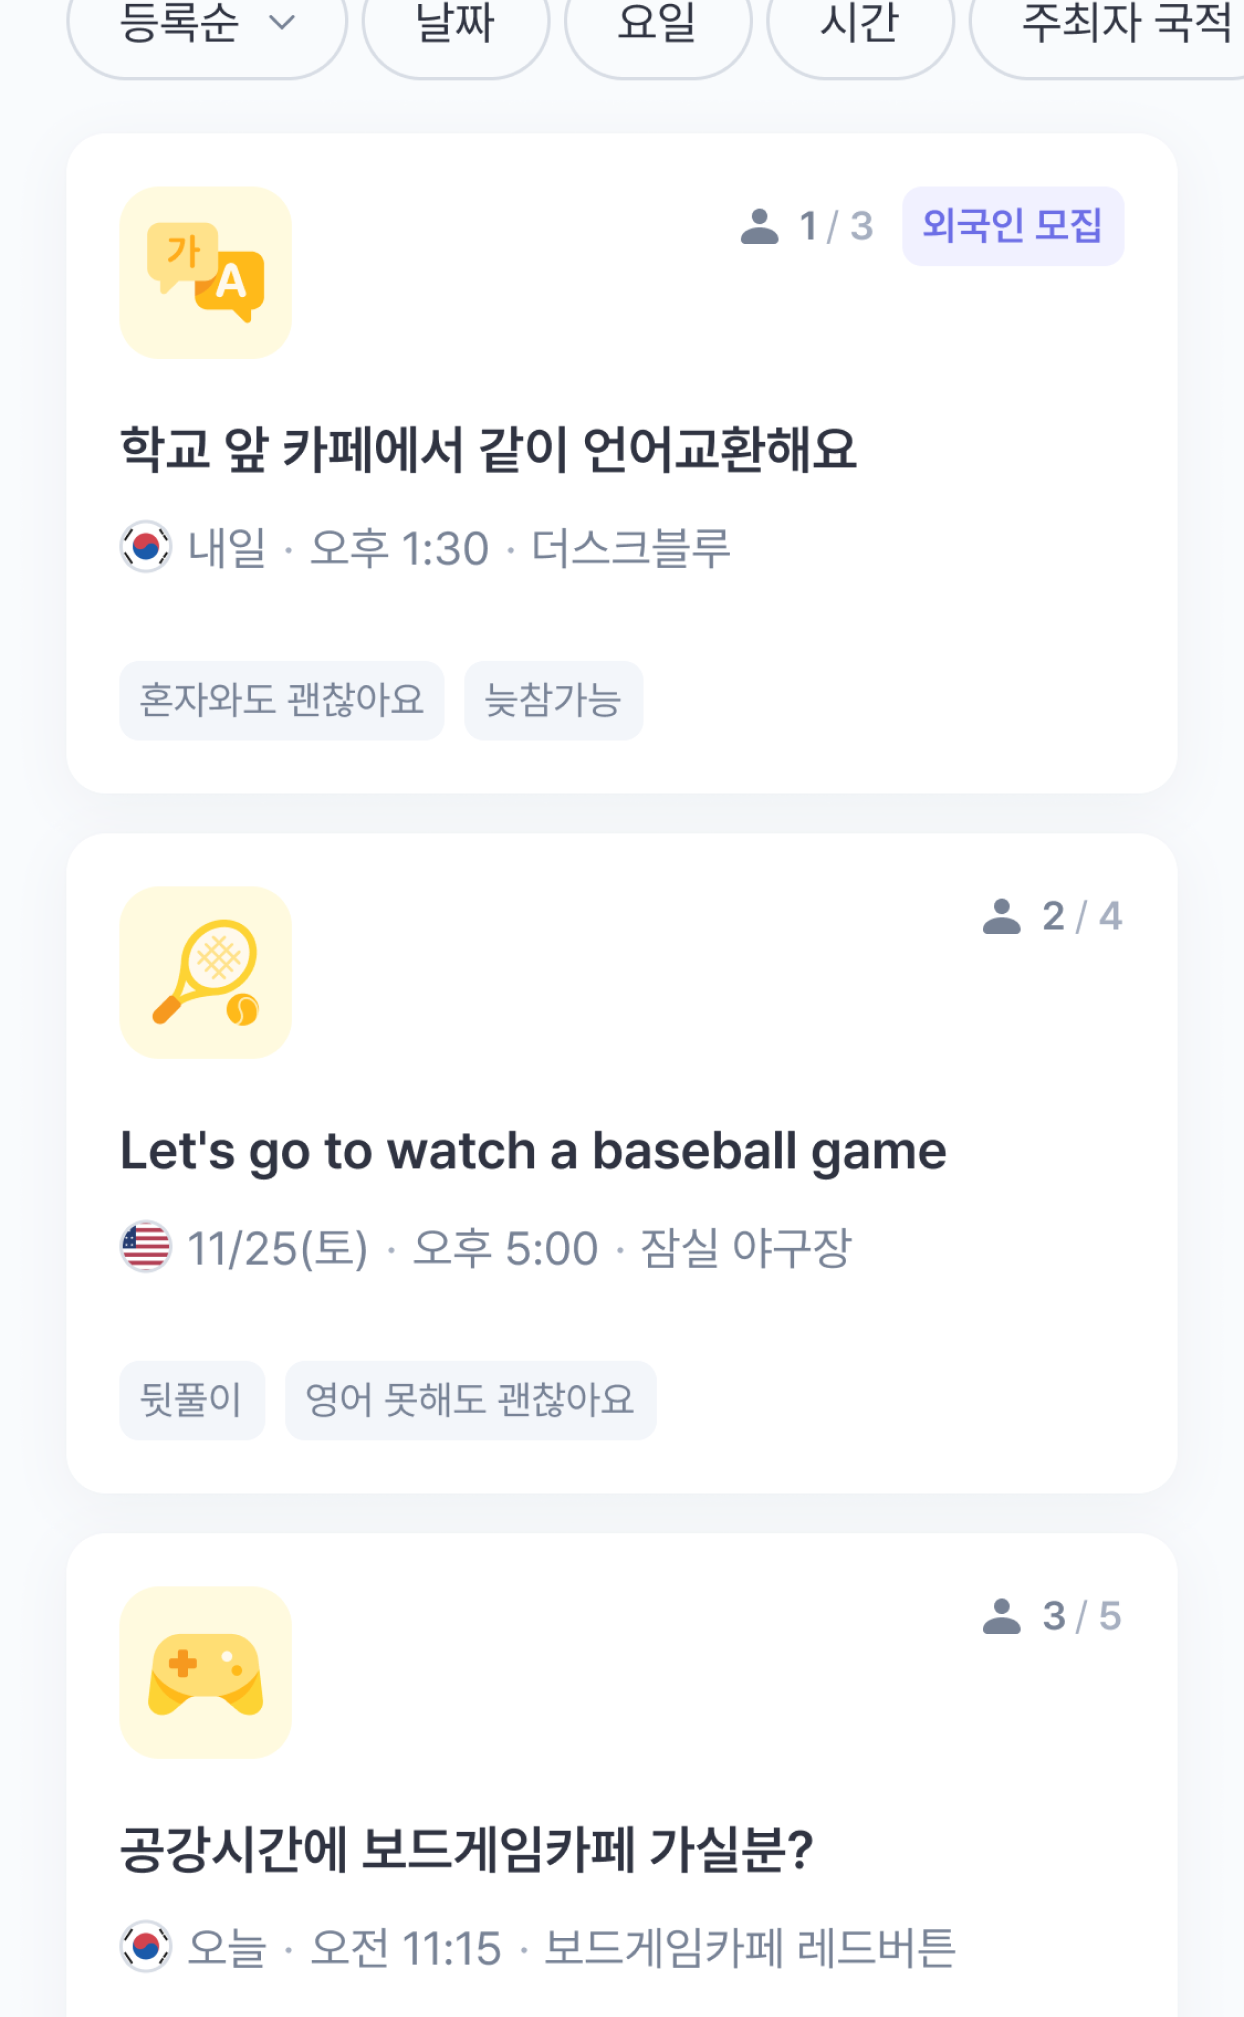
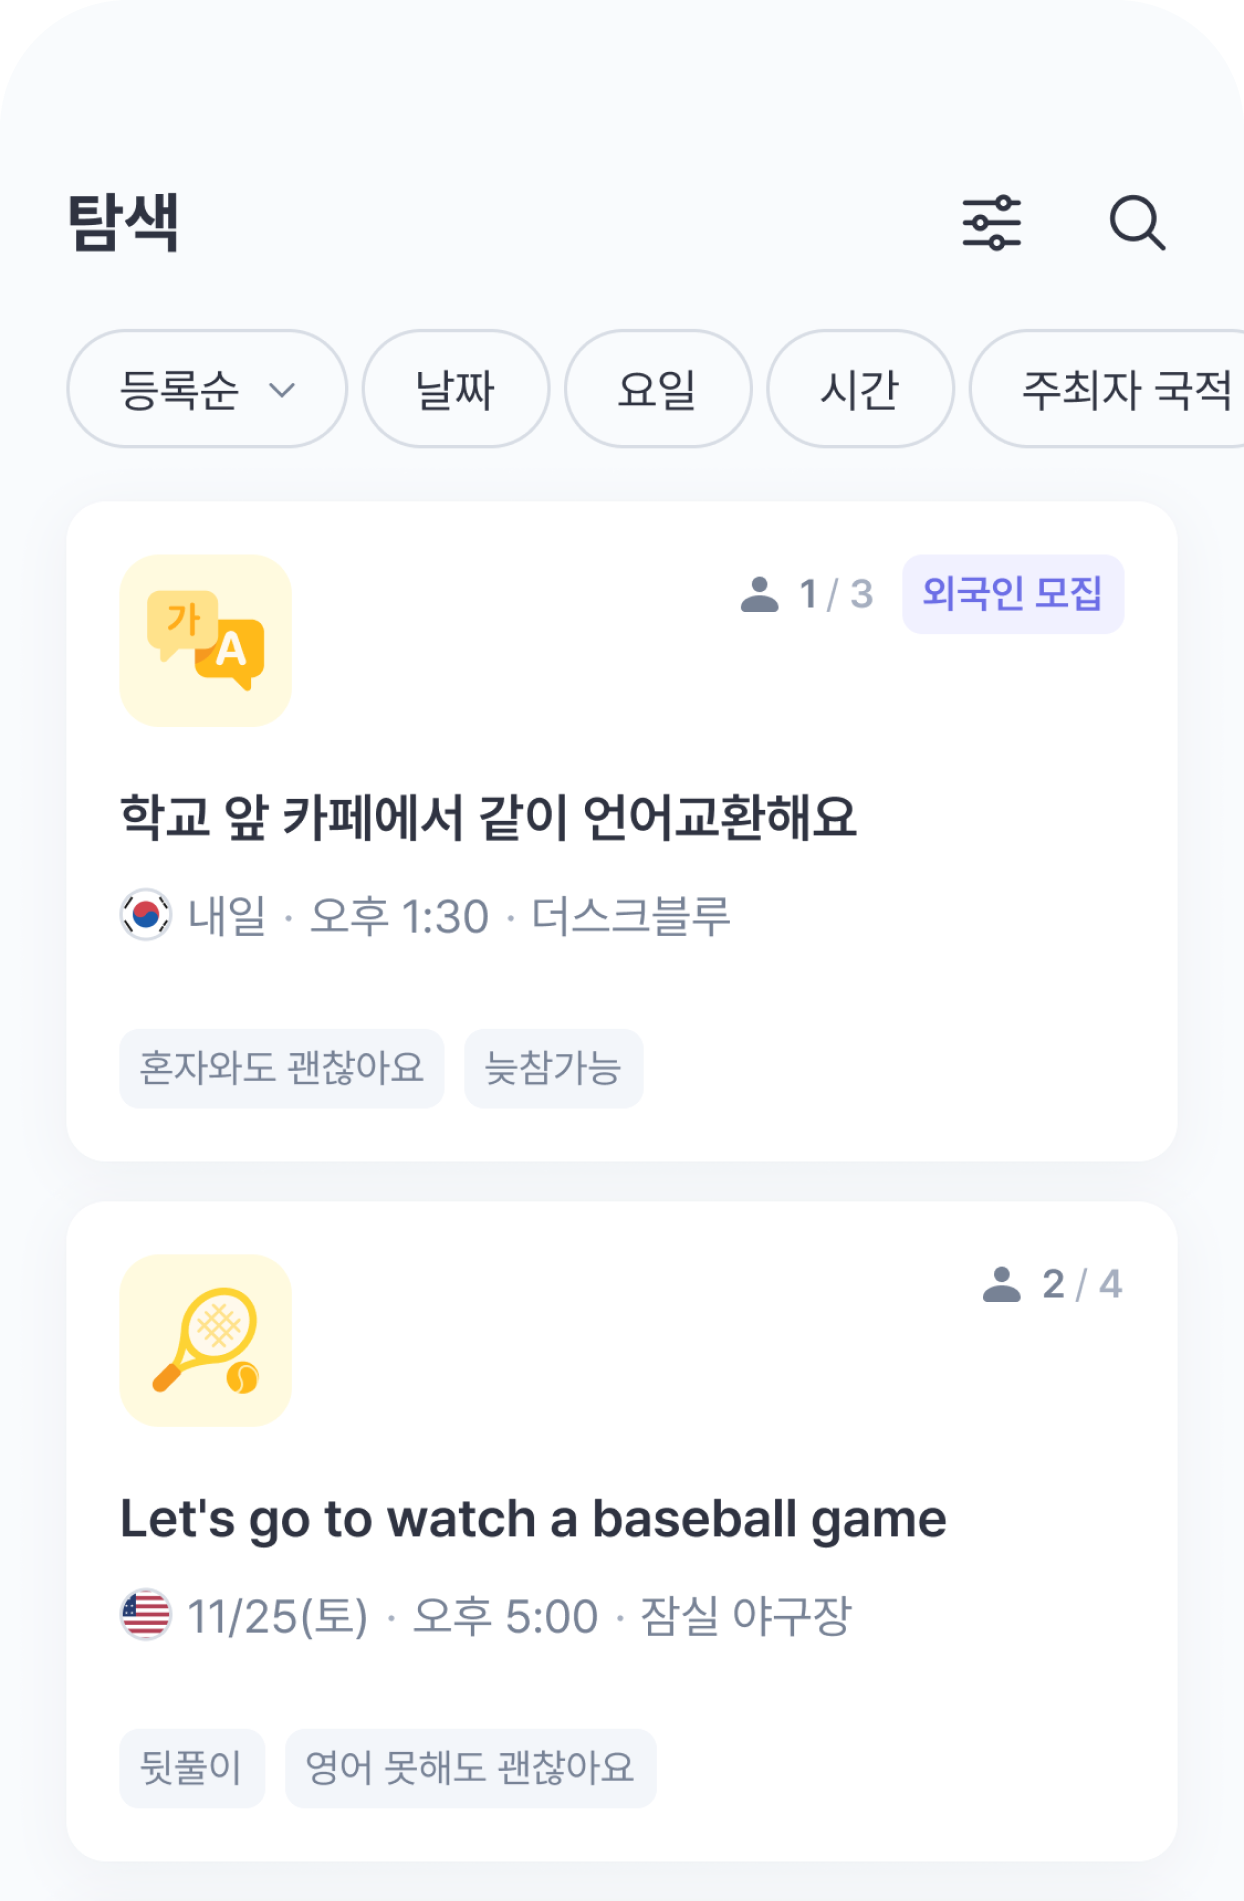
style: fix meetup card image and position

diff --git a/src/components/Part4/Part4.tsx b/src/components/Part4/Part4.tsx
@@ -83,10 +83,10 @@ export default function Part4() {
           </div>
         </div>
         <div
-          className="relative shrink-0 mobile:w-[335px] mobile:h-[335px] laptop:w-[504px] laptop:h-[504px] bg-bg-inverseWeak flex flex-col items-center rounded-[32px]"
+          className="relative shrink-0 aspect-square mobile:w-[335px] mobile:h-[335px] laptop:w-[504px] laptop:h-[504px] bg-bg-inverseWeak flex flex-col items-center justify-center rounded-[32px]"
           {...animatedItem[2]}
         >
-          <div className="relative mobile:w-[206px] mobile:h-[446px] laptop:w-[311px] laptop:h-[672px]">
+          <div className="mt-[30px] relative mobile:w-[206px] mobile:h-[446px] laptop:w-[311px] laptop:h-[672px]">
             <Image
               src="/assets/img/screen/meetup_list.png"
               alt=""
@@ -95,7 +95,7 @@ export default function Part4() {
             />
           </div>
           <div
-            className="absolute laptop:w-[377px] laptop:h-[224px] mobile:w-[250px] mobile:h-[150px] top-10 shadow-shadow-3"
+            className="absolute laptop:w-[377px] laptop:h-[224px] mobile:w-[250px] mobile:h-[150px] shadow-shadow-3"
             {...animatedItem[3]}
           >
             <Image
